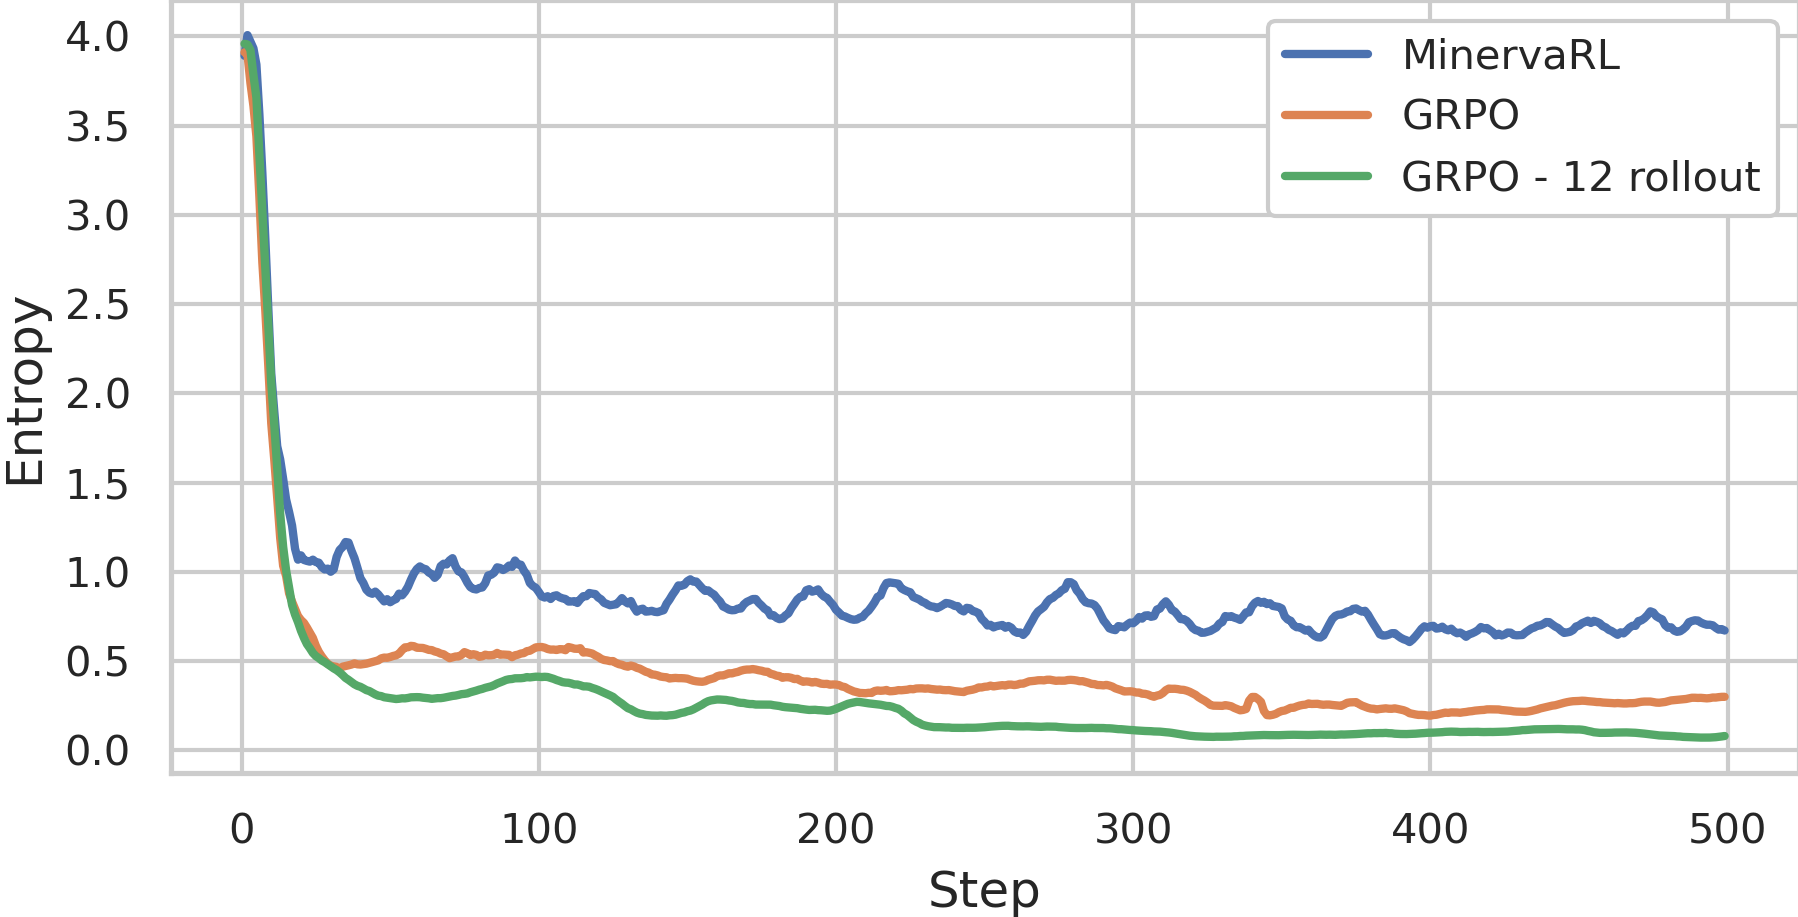
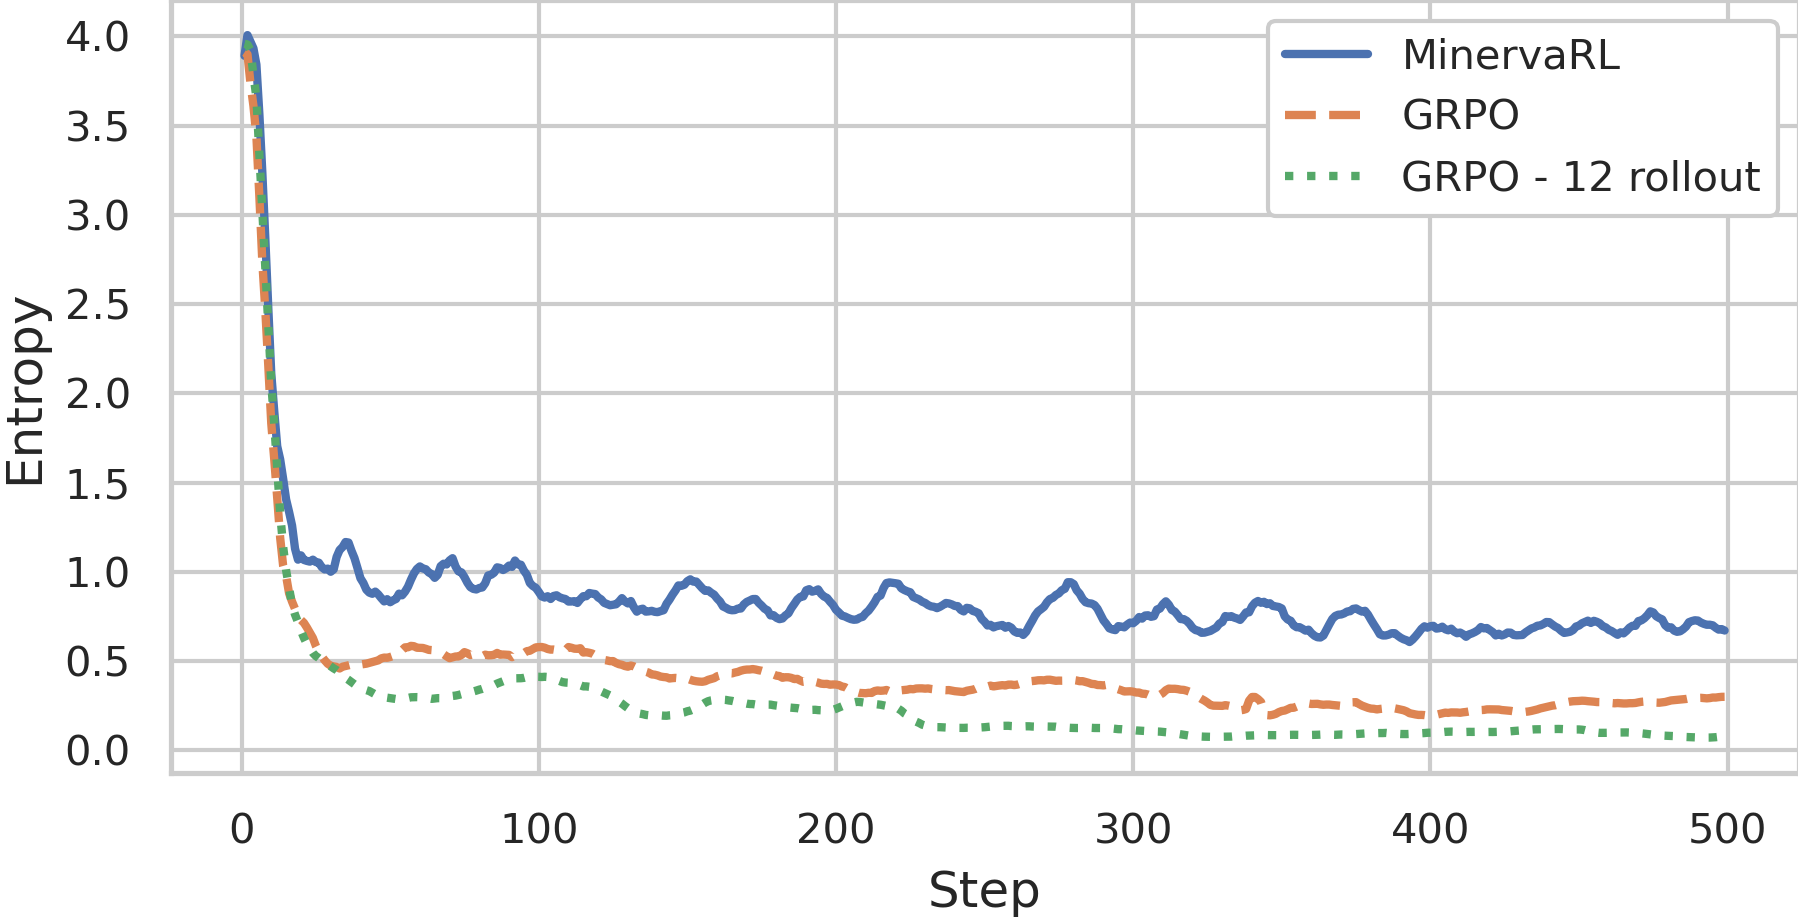
plot

diff --git a/training-dynamics/plot_zero_solve_rate.py b/training-dynamics/plot_zero_solve_rate.py
@@ -74,13 +74,18 @@ def main() -> None:
     fig, ax = plt.subplots(figsize=(6, 3.2))
 
     smooth_window = max(1, int(args.smooth_window))
+    style_map = {
+        "MinervaRL": "-",
+        "GRPO": "--",
+        "GRPO - 12 rollout": ":",
+    }
     for label, values in series.items():
         if smooth_window > 1:
             if args.smooth_method == "ema":
                 values = values.ewm(span=smooth_window, adjust=False).mean()
             else:
                 values = values.rolling(window=smooth_window, min_periods=1).mean()
-        ax.plot(df["Step"], values, label=label, linewidth=2.0)
+        ax.plot(df["Step"], values, label=label, linewidth=2.0, linestyle=style_map.get(label, "-"))
 
     ax.set_xlabel("Step", fontsize=12)
     ax.set_ylabel("Zero-solve fraction", fontsize=12)

diff --git a/training-dynamics/plot_entropy.py b/training-dynamics/plot_entropy.py
@@ -74,13 +74,18 @@ def main() -> None:
     fig, ax = plt.subplots(figsize=(6, 3.2))
 
     smooth_window = max(1, int(args.smooth_window))
+    style_map = {
+        "MinervaRL": "-",
+        "GRPO": "--",
+        "GRPO - 12 rollout": ":",
+    }
     for label, values in series.items():
         if smooth_window > 1:
             if args.smooth_method == "ema":
                 values = values.ewm(span=smooth_window, adjust=False).mean()
             else:
                 values = values.rolling(window=smooth_window, min_periods=1).mean()
-        ax.plot(df["Step"], values, label=label, linewidth=2.0)
+        ax.plot(df["Step"], values, label=label, linewidth=2.0, linestyle=style_map.get(label, "-"))
 
     ax.set_xlabel("Step", fontsize=12)
     ax.set_ylabel("Entropy", fontsize=12)
